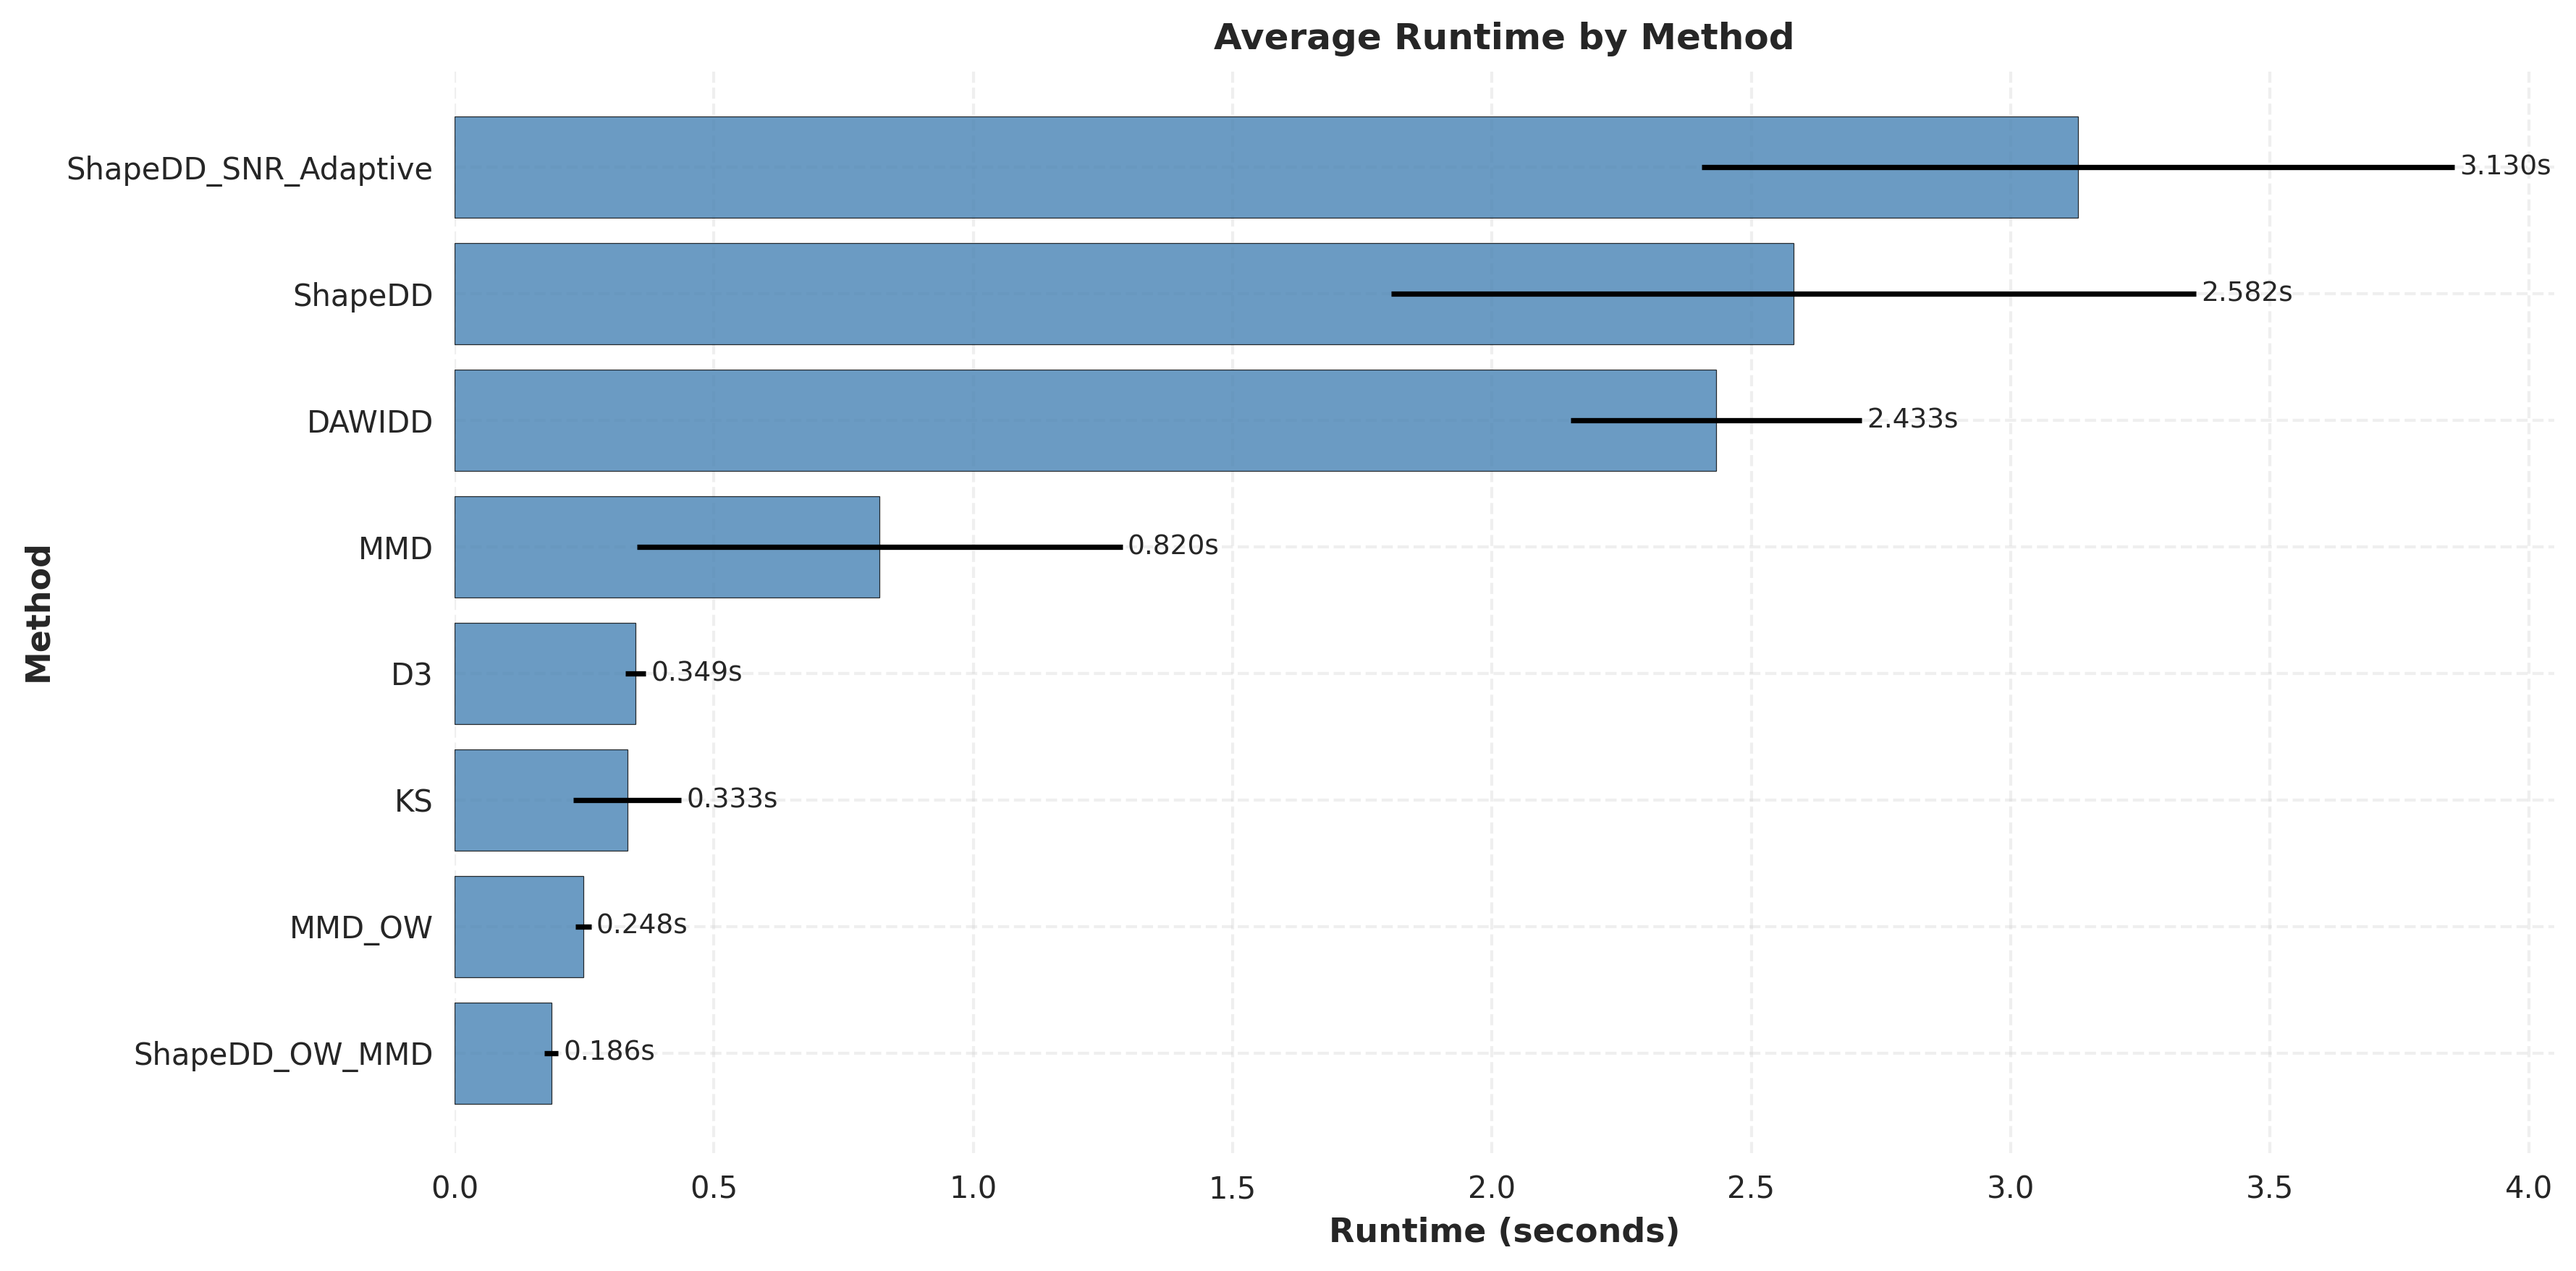
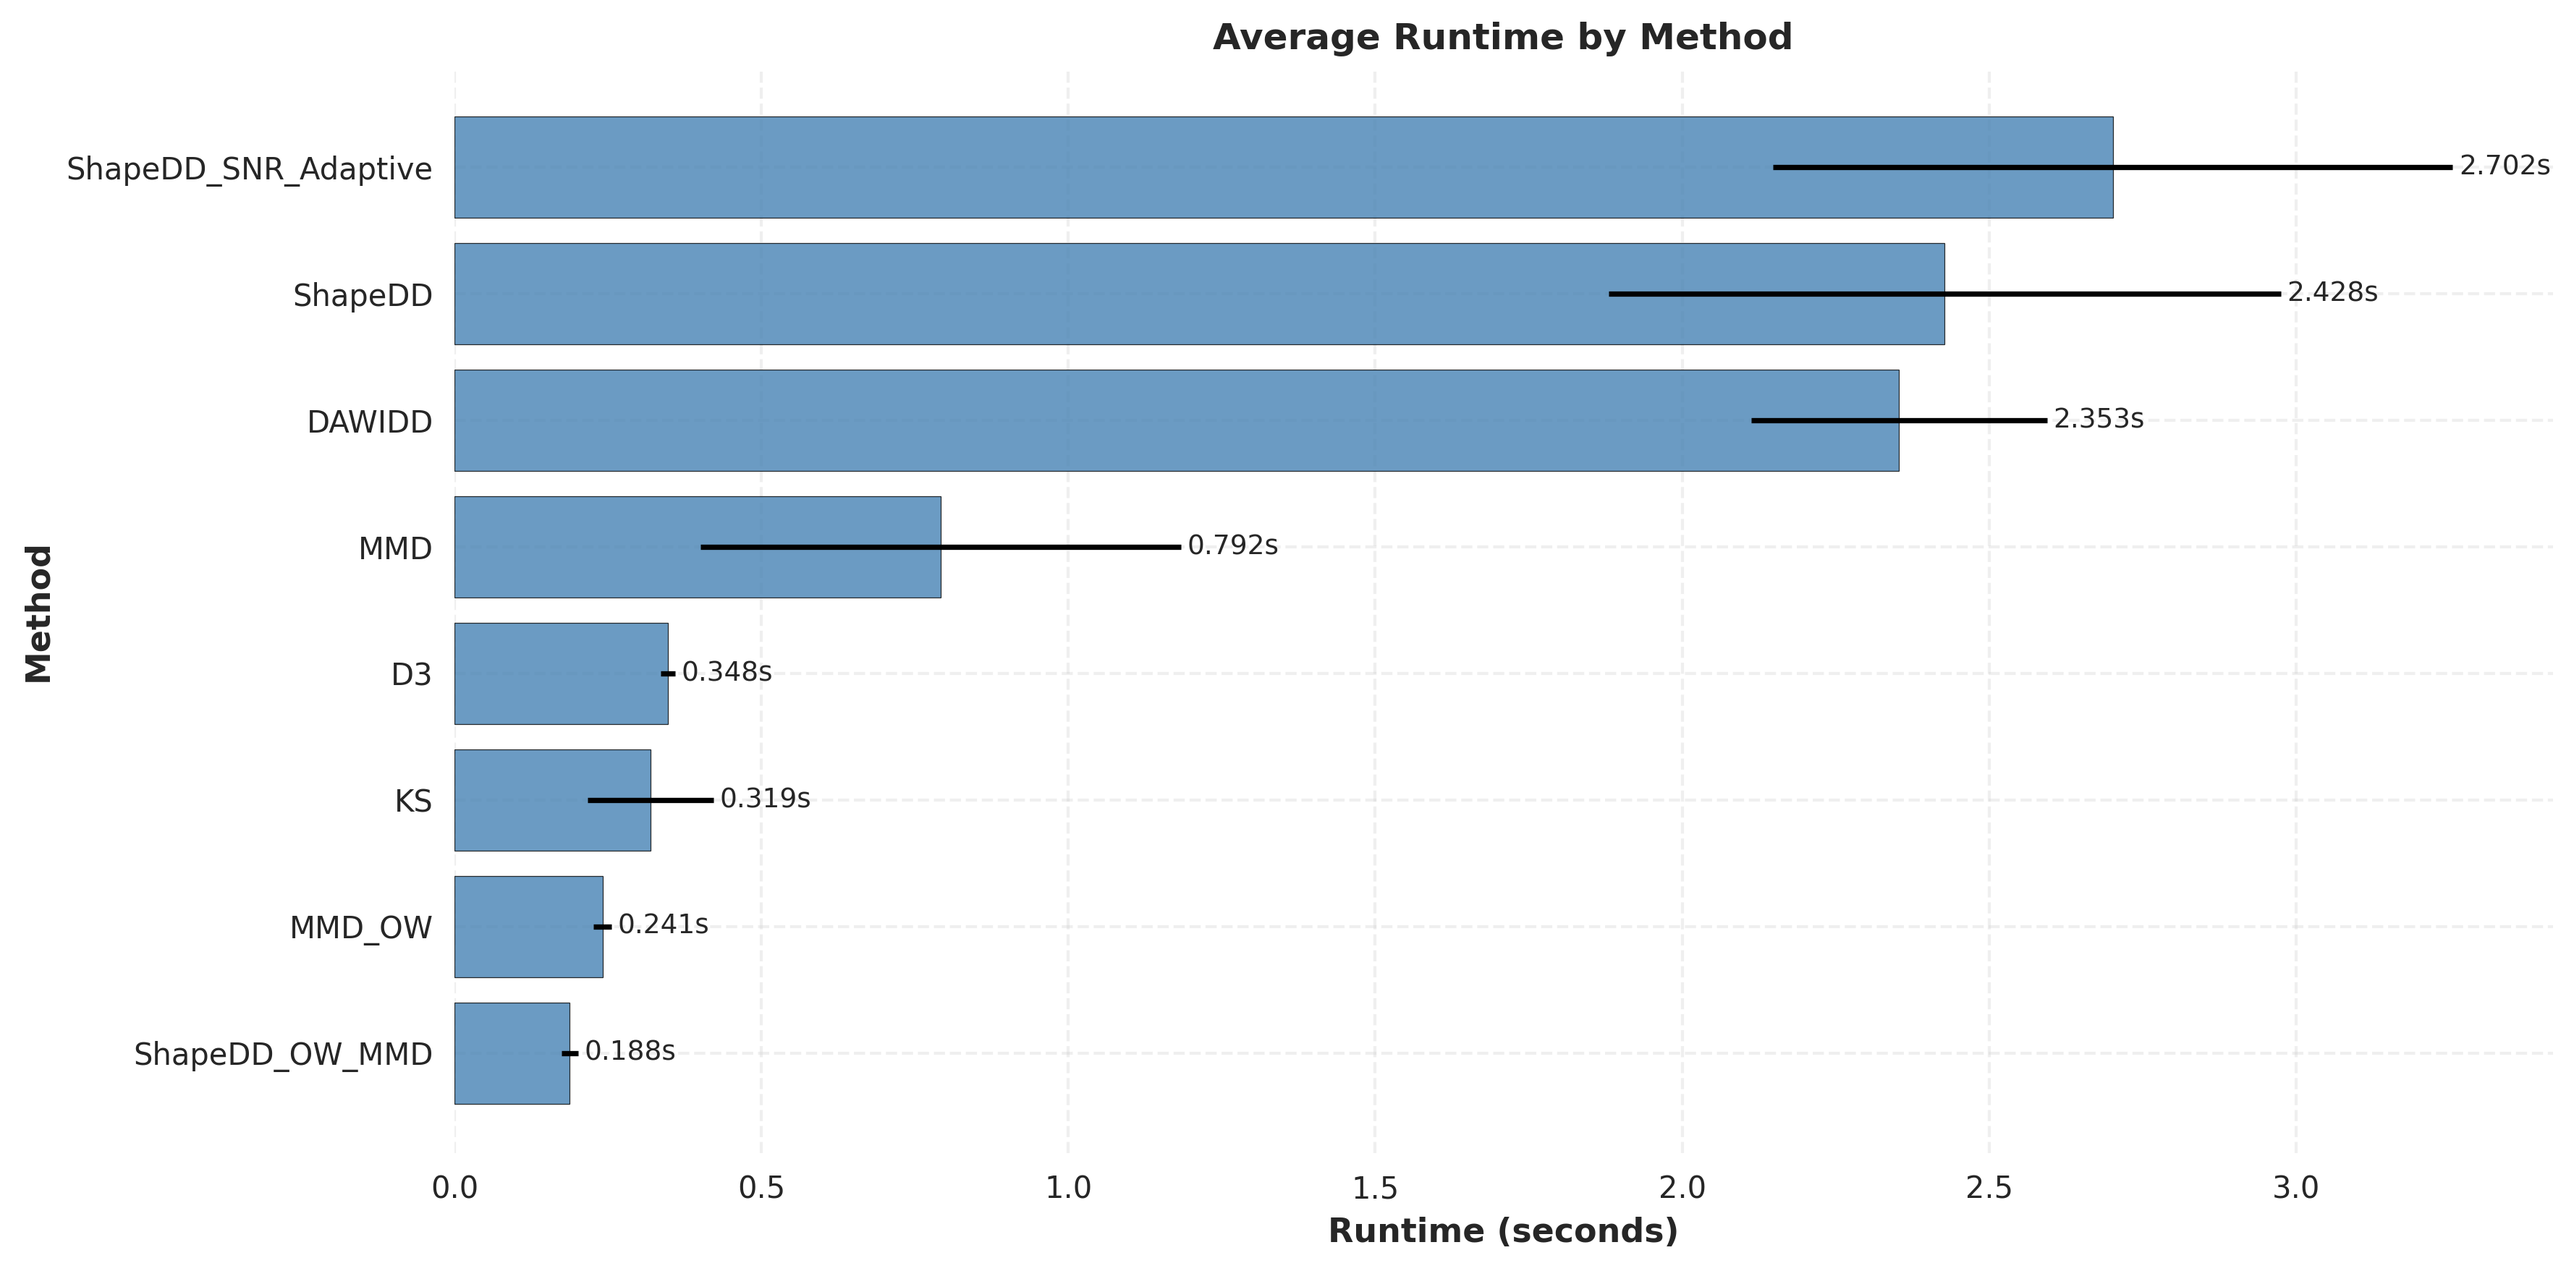
Re-run the experiment

diff --git a/publication_figures/table_II_f1_by_dataset.tex b/publication_figures/table_II_f1_by_dataset.tex
@@ -7,13 +7,13 @@ Dataset & Rank & electricity_sorted & hyperplane & led_abrupt & rbf_slow & rbfbl
 Method &  &  &  &  &  &  &  &  &  &  \\
 \midrule
 ShapeDD & 1 & 0.238 & 0.278 & 0.254 & 0.195 & \textbf{0.607} & 0.331 & 0.784 & 0.252 & \textbf{0.367} \\
-MMD & 2 & 0.159 & \textbf{0.285} & 0.255 & 0.270 & 0.593 & 0.390 & 0.639 & 0.270 & 0.358 \\
+MMD & 2 & 0.159 & \textbf{0.285} & \textbf{0.255} & 0.270 & 0.593 & 0.390 & 0.639 & 0.270 & 0.358 \\
 DAWIDD & 3 & 0.141 & 0.264 & 0.249 & 0.257 & 0.592 & 0.406 & 0.585 & 0.254 & 0.344 \\
 ShapeDD_SNR_Adaptive & 4 & 0.200 & 0.078 & 0.163 & 0.098 & 0.599 & 0.292 & 0.830 & 0.174 & 0.304 \\
 KS & 5 & 0.096 & 0.284 & 0.124 & \textbf{0.307} & 0.314 & 0.367 & 0.389 & \textbf{0.336} & 0.277 \\
 ShapeDD_OW_MMD & 6 & \textbf{0.276} & 0.000 & 0.083 & 0.000 & 0.024 & \textbf{0.774} & 0.994 & 0.023 & 0.272 \\
-D3 & 7 & 0.199 & 0.251 & \textbf{0.259} & 0.259 & 0.255 & 0.259 & 0.256 & 0.254 & 0.249 \\
-MMD_OW & 8 & 0.240 & 0.000 & 0.094 & 0.000 & 0.000 & 0.000 & \textbf{0.998} & 0.000 & 0.166 \\
+MMD_OW & 7 & 0.240 & 0.000 & 0.094 & 0.000 & 0.000 & 0.000 & \textbf{0.998} & 0.000 & 0.166 \\
+D3 & 8 & 0.090 & 0.000 & 0.000 & 0.000 & 0.012 & 0.000 & \textbf{0.998} & 0.000 & 0.138 \\
 \bottomrule
 \end{tabular}
 \end{table}

diff --git a/publication_figures/table_III_runtime_stats.tex b/publication_figures/table_III_runtime_stats.tex
@@ -6,14 +6,14 @@
  & Mean (s) & Std (s) & Min (s) & Max (s) & Throughput (samples/s) \\
 Method &  &  &  &  &  \\
 \midrule
-ShapeDD_OW_MMD & 0.186400 & 0.013200 & 0.163000 & 0.312100 & 53648 \\
-MMD_OW & 0.248000 & 0.015100 & 0.213900 & 0.359000 & 40323 \\
-KS & 0.333100 & 0.103700 & 0.166000 & 0.544200 & 30021 \\
-D3 & 0.348700 & 0.019700 & 0.327700 & 0.641900 & 28678 \\
-MMD & 0.819600 & 0.468100 & 0.278800 & 4.861400 & 12201 \\
-DAWIDD & 2.432900 & 0.280400 & 2.039600 & 4.531600 & 4110 \\
-ShapeDD & 2.581700 & 0.776000 & 1.449300 & 9.001700 & 3873 \\
-ShapeDD_SNR_Adaptive & 3.129800 & 0.725900 & 2.123000 & 7.372000 & 3195 \\
+ShapeDD_OW_MMD & 0.187900 & 0.013900 & 0.164500 & 0.306900 & 53220 \\
+MMD_OW & 0.241300 & 0.014400 & 0.213600 & 0.336400 & 41442 \\
+KS & 0.319300 & 0.102900 & 0.162400 & 0.480500 & 31319 \\
+D3 & 0.347700 & 0.012000 & 0.322800 & 0.470300 & 28760 \\
+MMD & 0.792300 & 0.390900 & 0.285500 & 3.443400 & 12621 \\
+DAWIDD & 2.353400 & 0.241100 & 2.050800 & 4.661200 & 4249 \\
+ShapeDD & 2.427500 & 0.547800 & 1.482700 & 4.794900 & 4119 \\
+ShapeDD_SNR_Adaptive & 2.701800 & 0.553500 & 1.878800 & 5.943500 & 3701 \\
 \bottomrule
 \end{tabular}
 \end{table}

diff --git a/publication_figures/table_I_comprehensive_performance.tex b/publication_figures/table_I_comprehensive_performance.tex
@@ -9,10 +9,10 @@ Rank & Method & F1 ($\mu \pm \sigma$) & Precision & Recall & MTTD & TP & FP & FN
 2 & MMD & $0.358 \pm 0.191$ & 0.315 & 0.547 & 60.000 & 1163 & 3382 & 1087 \\
 3 & DAWIDD & $0.344 \pm 0.187$ & 0.298 & 0.546 & 59.000 & 1161 & 3742 & 1089 \\
 4 & ShapeDD_SNR_Adaptive & $0.304 \pm 0.277$ & \textbf{0.438} & 0.292 & 55.000 & 641 & 786 & 1609 \\
-5 & KS & $0.277 \pm 0.120$ & 0.199 & 0.757 & 48.000 & 1668 & 8726 & 582 \\
+5 & KS & $0.277 \pm 0.120$ & 0.199 & \textbf{0.757} & 48.000 & 1668 & 8726 & 582 \\
 6 & ShapeDD_OW_MMD & $0.272 \pm 0.374$ & 0.319 & 0.321 & 53.000 & 651 & 682 & 1599 \\
-7 & D3 & $0.249 \pm 0.035$ & 0.145 & \textbf{0.908} & 55.000 & 2095 & 12220 & 155 \\
-8 & MMD_OW & $0.167 \pm 0.327$ & 0.174 & 0.208 & \textbf{46.000} & 409 & 570 & 1841 \\
+7 & MMD_OW & $0.167 \pm 0.327$ & 0.174 & 0.208 & 46.000 & 409 & 570 & 1841 \\
+8 & D3 & $0.138 \pm 0.328$ & 0.141 & 0.145 & \textbf{24.000} & 324 & 336 & 1926 \\
 \bottomrule
 \end{tabular}
 \end{table}
